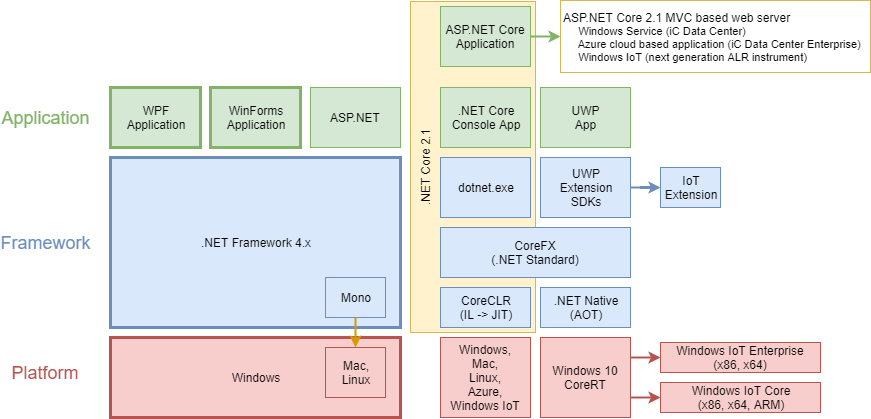
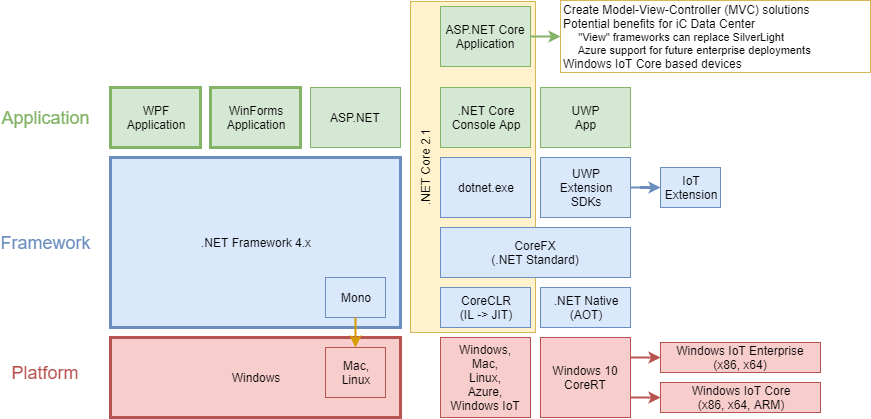
Presentation slides update

Changed region(s): [[0.651, 0.0, 0.992, 0.1862]]

diff --git a/DataCenterWebApp/ClientApp/src/app/about/slide-introduction-core/slide-introduction-core.component.html b/DataCenterWebApp/ClientApp/src/app/about/slide-introduction-core/slide-introduction-core.component.html
@@ -1,29 +1,51 @@
 <div class="container-fluid">
 
-<h3>Background (.NET Core and ASP.NET Core MVC)</h3>
+  <h3>Background (.NET Core and ASP.NET Core MVC)</h3>
 
-    <nav class="navbar navbar-default navbar-static-top" style="margin-top: 15px;">
+  <nav class="navbar navbar-default navbar-static-top" style="margin-top: 15px;">
     <div class="container-fluid">
       <ul class="nav navbar-nav">
-        <li [ngClass]="{'active': slideNumber == 1}"><a (click)="showSlide(1)">.NET Core</a></li>
-        <li [ngClass]="{'active': slideNumber == 2}"><a (click)="showSlide(2)">ASP.NET Core</a></li>
+        <li [ngClass]="{'active': slideNumber == 1}"><a (click)="showSlide(1)">ASP.NET Core</a></li>
+        <li [ngClass]="{'active': slideNumber == 2}"><a (click)="showSlide(2)">ASP.NET Core MVC SPA</a></li>
+        <li [ngClass]="{'active': slideNumber == 3}"><a (click)="showSlide(3)">Razor Engine</a></li>
+        <li [ngClass]="{'active': slideNumber == 4}"><a (click)="showSlide(4)">Razor Example</a></li>
+        <li [ngClass]="{'active': slideNumber == 5}"><a (click)="showSlide(5)">Silverlight Replacement</a></li>
       </ul>
     </div>
   </nav>
 
-    <div style="margin-top: 15px; margin-left: 30px;">
-      <div *ngIf="this.slideNumber == 1">
-        <h4>.NET Core (2.1)</h4>
-        <h5>Cross platform (Windows, Mac, Linux) open source (GitHub) implementation of .NET Standard</h5>
-        <h5>Deploy (publish) as either framework dependent (FDD) or self contained (SCD)</h5>
-        <img class="img-responsive prettyimage" src="../../../assets/Images/core.png">
-      </div>
-      <div *ngIf="this.slideNumber == 2">
-        <h4>ASP.NET Core (2.1)</h4>
-        <h5>Create a web based solution built on top of .NET Core</h5>
-        <h5>Conforms to the OWIN standard.</h5>
-        <img class="img-responsive prettyimage" src="../../../assets/Images/owin.png">
-      </div>
-    </div>
+  <div style="margin-top: 15px; margin-left: 30px;">
 
+    <div *ngIf="this.slideNumber == 1">
+      <h4>ASP.NET Core (2.1)</h4>
+      <h5>Create a web based solution built on top of .NET Core</h5>
+      <h5>Conforms to the OWIN standard.</h5>
+      <img class="img-responsive prettyimage" src="../../../assets/Images/owin.png">
+    </div>
+  </div>
+  <div *ngIf="this.slideNumber == 2">
+    <h4>MVC ASP.NET Core 2.1 SPA Architecture</h4>
+    <h5>User navigates to home page; Kestrel server constructs home controller.</h5>
+    <h5>Home controller returns entire application.</h5>
+    <h5>Controllers are constructed as needed to handle requests from the browser.</h5>
+    <img class="img-responsive prettyimage" src="../../../assets/Images/SPA ASP.NET Core MVC.png">
+  </div>
+
+  <div *ngIf="this.slideNumber == 3">
+    <h4>Razor engine (for traditional MVC page based application)</h4>
+    <h5>C# code embedded with HTML in cshtml file.</h5>
+    <img class="img-responsive prettyimage" src="../../../assets/Images/razor.png">
+  </div>
+  <div *ngIf="this.slideNumber == 4">
+    <h4>Razor example</h4>
+    <h5>Razor is not a programming language. It's a server side markup language.</h5>
+    <h5>
+      <a href="https://www.w3schools.com/asp/razor_intro.asp">https://www.w3schools.com/asp/razor_intro.asp</a>
+    </h5>
+    <img class="img-responsive prettyimage" src="../../../assets/Images/razor example.png">
+  </div>
+  <div *ngIf="this.slideNumber == 5">
+    <h4>The SilverLight client maps well to Angular / ASP.NET Core MVC</h4>
+    <img class="img-responsive prettyimage" src="../../../assets/Images/Silverlight replacement.png">
+  </div>
 </div>

diff --git a/DataCenterWebApp/ClientApp/src/app/about/slide-introduction-mvc/slide-introduction-mvc.component.html b/DataCenterWebApp/ClientApp/src/app/about/slide-introduction-mvc/slide-introduction-mvc.component.html
@@ -7,10 +7,7 @@
       <ul class="nav navbar-nav">
         <li [ngClass]="{'active': slideNumber == 1}"><a (click)="showSlide(1)">MVC</a></li>
         <li [ngClass]="{'active': slideNumber == 2}"><a (click)="showSlide(2)">MVC SPA</a></li>
-        <li [ngClass]="{'active': slideNumber == 3}"><a (click)="showSlide(3)">ASP.NET Core MVC SPA</a></li>
-        <li [ngClass]="{'active': slideNumber == 4}"><a (click)="showSlide(4)">Silverlight Replacement</a></li>
-        <li [ngClass]="{'active': slideNumber == 5}"><a (click)="showSlide(5)">Razor Engine</a></li>
-        <li [ngClass]="{'active': slideNumber == 6}"><a (click)="showSlide(6)">Razor Example</a></li>
+
 
       </ul>
     </div>
@@ -30,28 +27,5 @@
     <h5>Views request view models (json) from the web server.</h5>
     <img class="img-responsive prettyimage" src="../../../assets/Images/SPA web based MVC.png">
   </div>
-  <div *ngIf="this.slideNumber == 3">
-    <h4>MVC ASP.NET Core 2.1 SPA Architecture</h4>
-    <h5>User navigates to home page; Kestrel server constructs home controller.</h5>
-    <h5>Home controller returns entire application.</h5>
-    <h5>Controllers are constructed as needed to handle requests from the browser.</h5>
-    <img class="img-responsive prettyimage" src="../../../assets/Images/SPA ASP.NET Core MVC.png">
-  </div>
-  <div *ngIf="this.slideNumber == 4">
-    <h4>The SilverLight client maps well to Angular / ASP.NET Core MVC</h4>
-    <img class="img-responsive prettyimage" src="../../../assets/Images/Silverlight replacement.png">
-  </div>
-  <div *ngIf="this.slideNumber == 5">
-    <h4>Razor engine (for traditional MVC page based application)</h4>
-    <h5>C# code embedded with HTML in cshtml file.</h5>
-    <img class="img-responsive prettyimage" src="../../../assets/Images/razor.png">
-  </div>
-  <div *ngIf="this.slideNumber == 6">
-    <h4>Razor example</h4>
-    <h5>Razor is not a programming language. It's a server side markup language.</h5>
-    <h5>
-      <a href="https://www.w3schools.com/asp/razor_intro.asp">https://www.w3schools.com/asp/razor_intro.asp</a>
-    </h5>
-    <img class="img-responsive prettyimage" src="../../../assets/Images/razor example.png">
-  </div>
+
 </div>

diff --git a/DataCenterWebApp/ClientApp/src/app/about/about.component.html b/DataCenterWebApp/ClientApp/src/app/about/about.component.html
@@ -7,12 +7,12 @@
     <div class="container-fluid">
       <ul class="nav navbar-nav">
         <li [ngClass]="{'active': slideNumber == 1}"><a (click)="showSlide(1)">.NET Platforms</a></li>
-        <li [ngClass]="{'active': slideNumber == 2}"><a (click)="showSlide(2)">.NET Core</a></li>
-        <li [ngClass]="{'active': slideNumber == 3}"><a (click)="showSlide(3)">MVC</a></li>
+        <li [ngClass]="{'active': slideNumber == 2}"><a (click)="showSlide(2)">MVC</a></li>
+        <li [ngClass]="{'active': slideNumber == 3}"><a (click)="showSlide(3)">ASP.NET Core</a></li>
         <li [ngClass]="{'active': slideNumber == 4}"><a (click)="showSlide(4)">StepStone</a></li>
-        <li [ngClass]="{'active': slideNumber == 5}"><a (click)="showSlide(5)">Hello world</a></li>
-        <li [ngClass]="{'active': slideNumber == 6}"><a (click)="showSlide(6)">Beyond</a></li>
-        <li [ngClass]="{'active': slideNumber == 7}"><a (click)="showSlide(7)">Arcitecture</a></li>
+        <li [ngClass]="{'active': slideNumber == 5}"><a (click)="showSlide(5)">Demo</a></li>
+        <li [ngClass]="{'active': slideNumber == 6}"><a (click)="showSlide(6)">Server Side</a></li>
+        <li [ngClass]="{'active': slideNumber == 7}"><a (click)="showSlide(7)">Front End</a></li>
         <li [ngClass]="{'active': slideNumber == 8}"><a (click)="showSlide(8)">Links</a></li>
       </ul>
     </div>
@@ -25,16 +25,16 @@
       <slide-dotnet></slide-dotnet>
     </div>
     <div *ngIf="this.slideNumber == 2">
-      <slide-introduction-core></slide-introduction-core>
+      <slide-introduction-mvc></slide-introduction-mvc>
     </div>
     <div *ngIf="this.slideNumber == 3">
-      <slide-introduction-mvc></slide-introduction-mvc>
+      <slide-introduction-core></slide-introduction-core>
     </div>
     <div *ngIf="this.slideNumber == 4">
       <slide-overview></slide-overview>
     </div>
     <div *ngIf="this.slideNumber == 5">
-      <slide4></slide4>
+      <slide-demo></slide-demo>
     </div>
     <div *ngIf="this.slideNumber == 6">
       <slide5></slide5>

diff --git a/DataCenterWebApp/ClientApp/src/app/app.module.ts b/DataCenterWebApp/ClientApp/src/app/app.module.ts
@@ -36,7 +36,7 @@ import { SlideIntroductionMvcComponent } from './about/slide-introduction-mvc/sl
 import { SlideIntroductionCoreComponent } from './about/slide-introduction-core/slide-introduction-core.component';
 import { SlideOverviewComponent } from './about/slide-overview/slide-overview.component';
 import { SlideDotNetComponent } from './about/slide-dotnet/slide-dotnet.component';
-import { Slide4Component } from './about/slide4/slide4.component';
+import { SlideDemoComponent } from './about/slide-demo/slide-demo.component';
 import { Slide5Component } from './about/slide5/slide5.component';
 import { Slide6Component } from './about/slide6/slide6.component';
 import { Slide7Component } from './about/slide7/slide7.component';
@@ -67,7 +67,7 @@ import { Slide7Component } from './about/slide7/slide7.component';
     SlideIntroductionCoreComponent,
     SlideOverviewComponent,
     SlideDotNetComponent,
-    Slide4Component,
+    SlideDemoComponent,
     Slide5Component,
     Slide6Component,
     Slide7Component

diff --git a/DataCenterWebApp/ClientApp/src/app/about/slide-dotnet/slide-dotnet.component.html b/DataCenterWebApp/ClientApp/src/app/about/slide-dotnet/slide-dotnet.component.html
@@ -6,6 +6,12 @@
     <img class="img-responsive prettyimage" (click)="showSlide(2)" src="../../../assets/Images/dotnet frameworks 1.png">
   </div>
   <div *ngIf="this.slideNumber == 2">
-    <img class="img-responsive prettyimage" (click)="showSlide(1)" src="../../../assets/Images/dotnet frameworks 2.png">
+    <img class="img-responsive prettyimage" (click)="showSlide(3)" src="../../../assets/Images/dotnet frameworks 2.png">
+  </div>
+  <div *ngIf="this.slideNumber == 3">
+    <h4>.NET Core (2.1)</h4>
+    <h5>Cross platform (Windows, Mac, Linux) open source (GitHub) implementation of .NET Standard</h5>
+    <h5>Deploy (publish) as either framework dependent (FDD) or self contained (SCD)</h5>
+    <img class="img-responsive prettyimage" (click)="showSlide(1)" src="../../../assets/Images/core.png">
   </div>
 </div>

diff --git a/DataCenterWebApp/ClientApp/src/app/about/slide-demo/slide-demo.component.html b/DataCenterWebApp/ClientApp/src/app/about/slide-demo/slide-demo.component.html
@@ -1,0 +1,13 @@
+<div class="container-fluid">
+
+  <h3>Things to Demo</h3>
+
+  <h4>Styling</h4>
+  <h4>Responsive UI</h4>
+  <h4>Drag And Drop</h4>
+  <h4>Dashboard Page</h4>
+  <h4>Security</h4>
+  <h4>Search</h4>
+  <h4>SVG</h4>
+
+</div>

diff --git a/DataCenterWebApp/ClientApp/src/app/about/slide-demo/slide-demo.component.ts b/DataCenterWebApp/ClientApp/src/app/about/slide-demo/slide-demo.component.ts
@@ -1,0 +1,11 @@
+import { Component } from "@angular/core";
+
+@Component({
+  selector: "slide-demo", 
+  templateUrl: "./slide-demo.component.html",
+  styleUrls: ['../slide.component.css']
+})
+
+export class SlideDemoComponent {
+
+}
